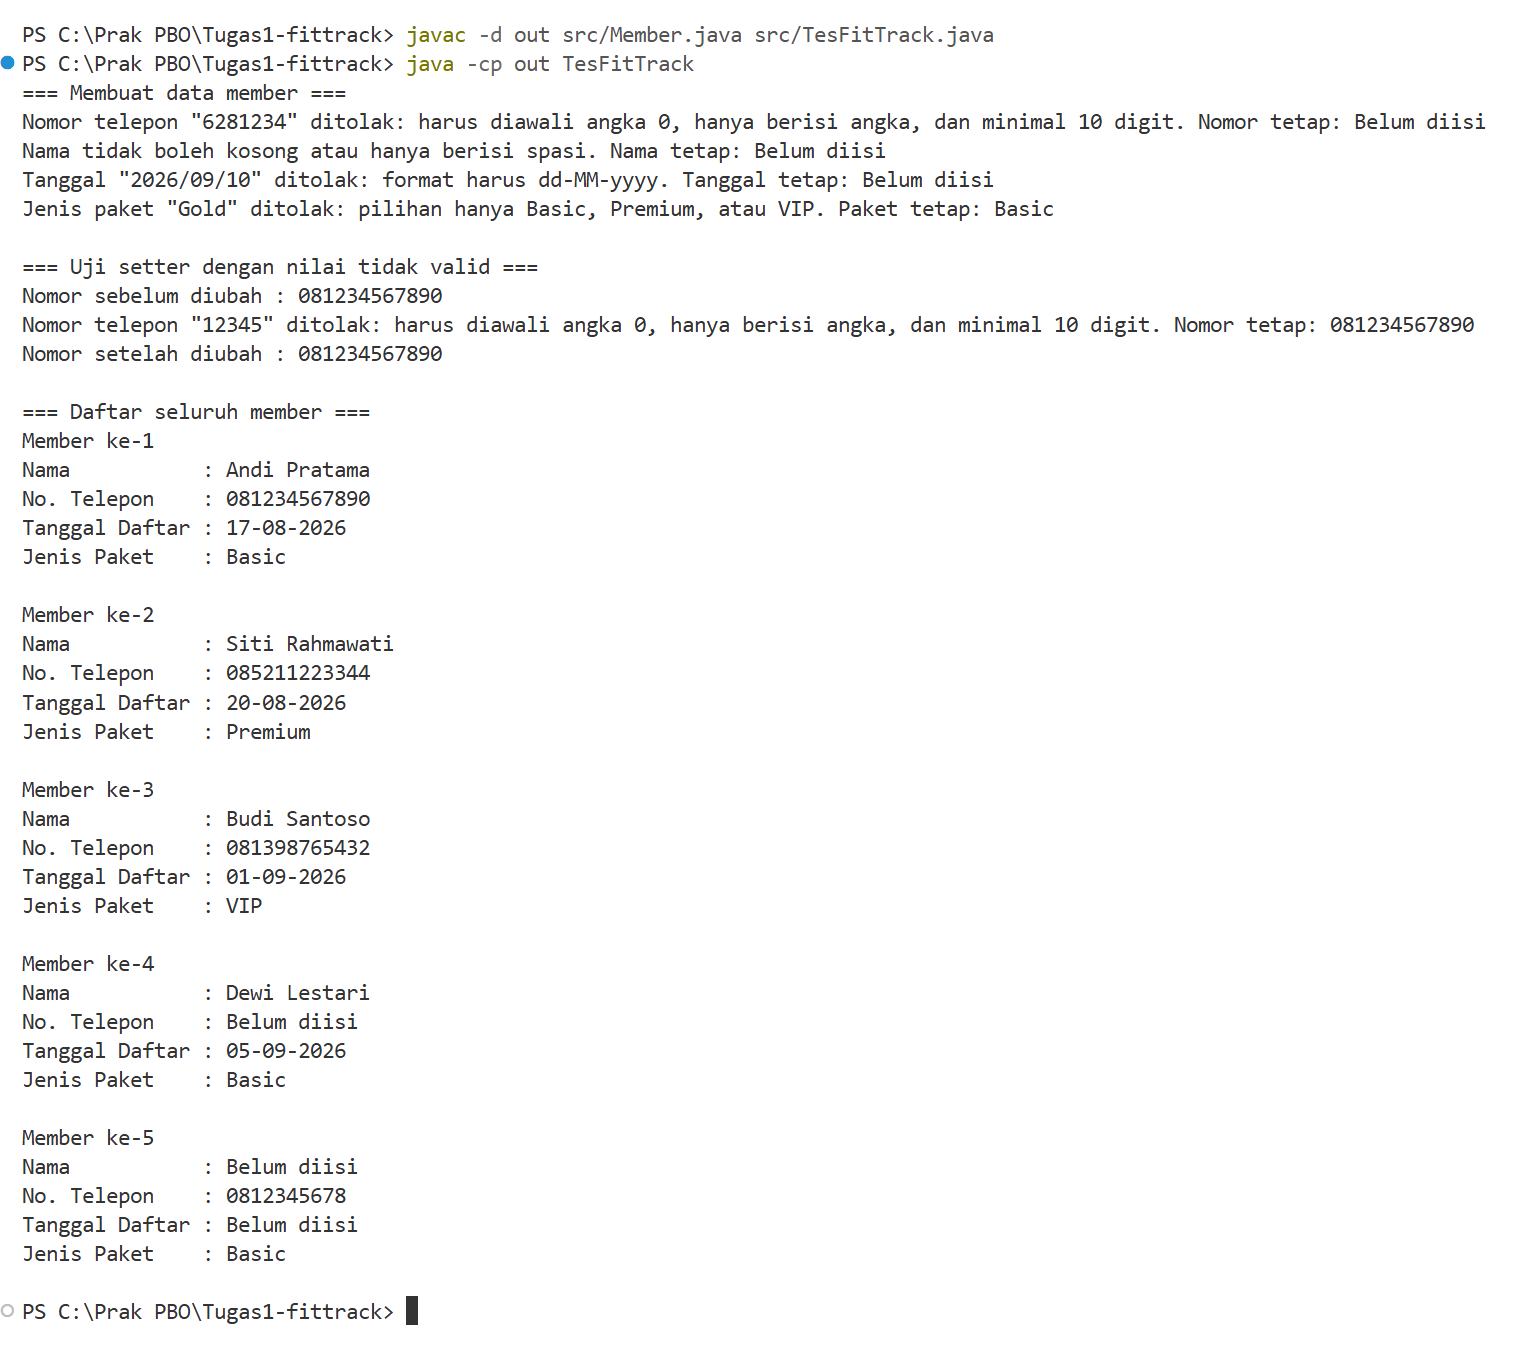
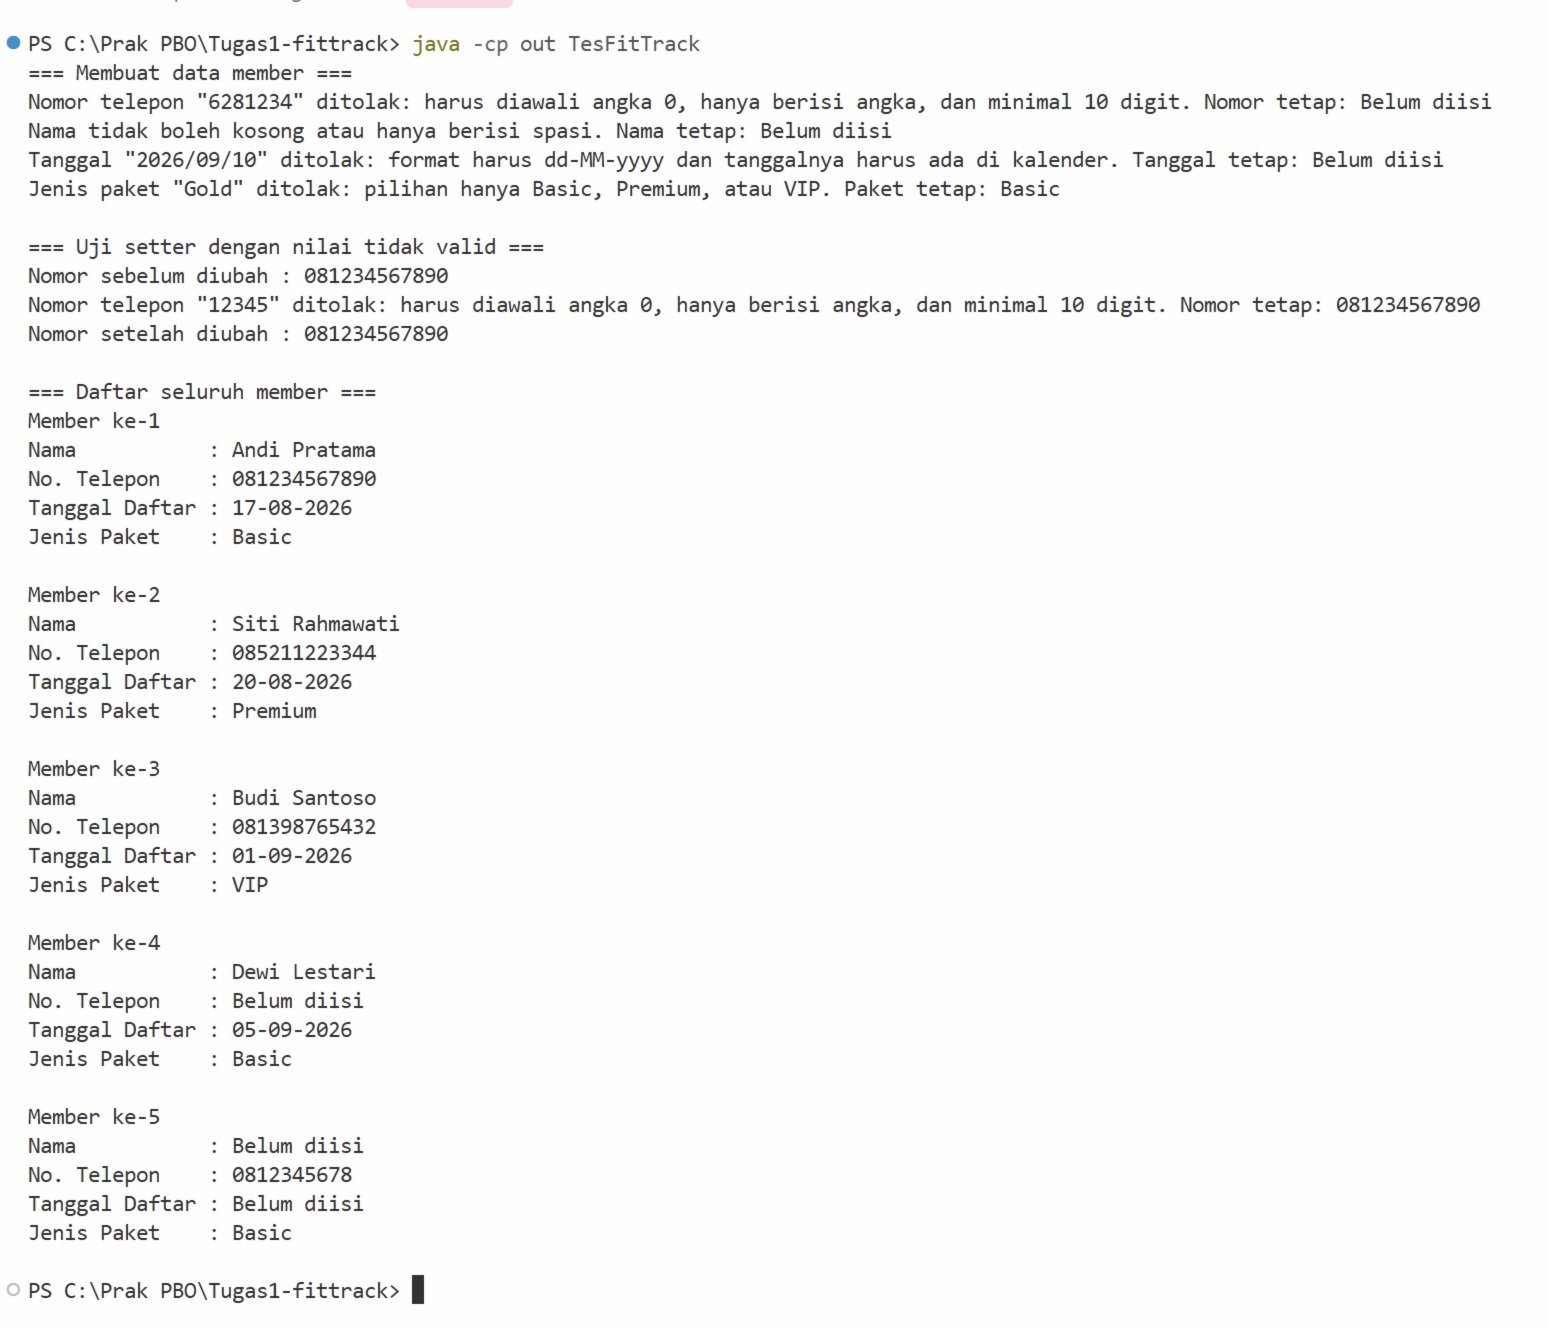
fix: tolak tanggal daftar yang tidak ada di kalender

Changed region(s): [[0.0, 0.0, 0.9856, 0.8027], [0.0, 0.8336, 0.2772, 0.988]]

diff --git a/src/Member.java b/src/Member.java
@@ -1,3 +1,8 @@
+import java.time.LocalDate;
+import java.time.format.DateTimeFormatter;
+import java.time.format.DateTimeParseException;
+import java.time.format.ResolverStyle;
+
 /**
  * Merepresentasikan satu member yang terdaftar di gym FitTrack.
  * Class ini menyimpan data pribadi dan jenis paket keanggotaan member.
@@ -19,14 +24,14 @@ public class Member {
     private static final String POLA_HANYA_ANGKA = "\\d+";
     private static final String POLA_TANGGAL = "\\d{2}-\\d{2}-\\d{4}";
     private static final String CONTOH_FORMAT_TANGGAL = "dd-MM-yyyy";
+    private static final DateTimeFormatter FORMAT_TANGGAL =
+            DateTimeFormatter.ofPattern("dd-MM-uuuu").withResolverStyle(ResolverStyle.STRICT);
 
     private String nama = NILAI_BELUM_DIISI;
     private String noTelepon = NILAI_BELUM_DIISI;
     private String tanggalDaftar = NILAI_BELUM_DIISI;
     private String jenisPaket = PAKET_BASIC;
 
-
-    
     /**
      * Membuat member baru dengan data lengkap. Setiap nilai diisi
      * lewat setter sehingga validasi hanya ditulis di satu tempat.
@@ -44,19 +49,6 @@ public class Member {
     }
 
     /**
-     * Mengembalikan data member dalam bentuk teks berlabel.
-     *
-     * @return representasi data member yang mudah dibaca
-     */
-    @Override
-    public String toString() {
-        return "Nama           : " + nama + "\n"
-                + "No. Telepon    : " + noTelepon + "\n"
-                + "Tanggal Daftar : " + tanggalDaftar + "\n"
-                + "Jenis Paket    : " + jenisPaket;
-    }
-
-    /**
      * Membuat member baru tanpa menyebutkan paket. Jenis paket
      * otomatis diisi Basic.
      *
@@ -67,6 +59,7 @@ public class Member {
     public Member(String nama, String noTelepon, String tanggalDaftar) {
         this(nama, noTelepon, tanggalDaftar, PAKET_BASIC);
     }
+
     /**
      * Mengembalikan nama lengkap member.
      *
@@ -129,9 +122,9 @@ public class Member {
     }
 
     /**
-     * Mengubah tanggal daftar setelah memastikan formatnya konsisten
-     * dengan dd-MM-yyyy. Jika tidak valid, tanggal lama dipertahankan
-     * dan alasan penolakan dicetak.
+     * Mengubah tanggal daftar setelah memastikan formatnya dd-MM-yyyy
+     * dan tanggalnya benar-benar ada di kalender. Jika tidak valid,
+     * tanggal lama dipertahankan dan alasan penolakan dicetak.
      *
      * @param tanggalDaftar tanggal daftar baru, contoh 17-08-2026
      */
@@ -140,7 +133,8 @@ public class Member {
             this.tanggalDaftar = tanggalDaftar;
         } else {
             System.out.println("Tanggal \"" + tanggalDaftar + "\" ditolak: format harus "
-                    + CONTOH_FORMAT_TANGGAL + ". Tanggal tetap: " + this.tanggalDaftar);
+                    + CONTOH_FORMAT_TANGGAL + " dan tanggalnya harus ada di kalender. "
+                    + "Tanggal tetap: " + this.tanggalDaftar);
         }
     }
 
@@ -170,6 +164,19 @@ public class Member {
         }
     }
 
+    /**
+     * Mengembalikan data member dalam bentuk teks berlabel.
+     *
+     * @return representasi data member yang mudah dibaca
+     */
+    @Override
+    public String toString() {
+        return "Nama           : " + nama + "\n"
+                + "No. Telepon    : " + noTelepon + "\n"
+                + "Tanggal Daftar : " + tanggalDaftar + "\n"
+                + "Jenis Paket    : " + jenisPaket;
+    }
+
     private boolean isNamaValid(String nama) {
         return nama != null && !nama.trim().isEmpty();
     }
@@ -182,7 +189,15 @@ public class Member {
     }
 
     private boolean isTanggalDaftarValid(String tanggalDaftar) {
-        return tanggalDaftar != null && tanggalDaftar.matches(POLA_TANGGAL);
+        if (tanggalDaftar == null || !tanggalDaftar.matches(POLA_TANGGAL)) {
+            return false;
+        }
+        try {
+            LocalDate.parse(tanggalDaftar, FORMAT_TANGGAL);
+            return true;
+        } catch (DateTimeParseException e) {
+            return false;
+        }
     }
 
     private boolean isJenisPaketValid(String jenisPaket) {

diff --git a/README.md b/README.md
@@ -10,7 +10,7 @@ Program ini untuk mencatat data member gym FitTrack. Setiap data yang dimasukkan
 ## Fitur
 - Menambah member dengan nama, no telepon, tanggal daftar, dan jenis paket
 - Menambah member tanpa pilih paket, otomatis jadi Basic
-- Menolak nama kosong, no telepon yang salah format, tanggal yang bukan dd-MM-yyyy, dan paket selain Basic/Premium/VIP
+- Menolak nama kosong, no telepon yang salah format, tanggal yang bukan dd-MM-yyyy atau tidak ada di kalender (misalnya 31-02-2026), dan paket selain Basic/Premium/VIP
 - Menampilkan alasan kalau data ditolak
 - Menampilkan semua data member
 
@@ -58,6 +58,6 @@ Member 1-3 data normal, member 4-5 dan uji setter nomor telepon menunjukkan data
 Nilai default ditulis langsung di atribut, jadi kalau setter menolak data di constructor, atributnya tetap berisi nilai ini.
 
 ## Batasan
-- Tanggal cuma dicek formatnya, jadi tanggal seperti 31-02-2026 masih diterima
+- Tanggal sudah dicek apakah ada di kalender, tapi belum dicek apakah tanggalnya di masa depan
 - Data member belum disimpan ke file, hilang setelah program selesai
 - Data masih ditulis di kode, belum ada input dari pengguna
